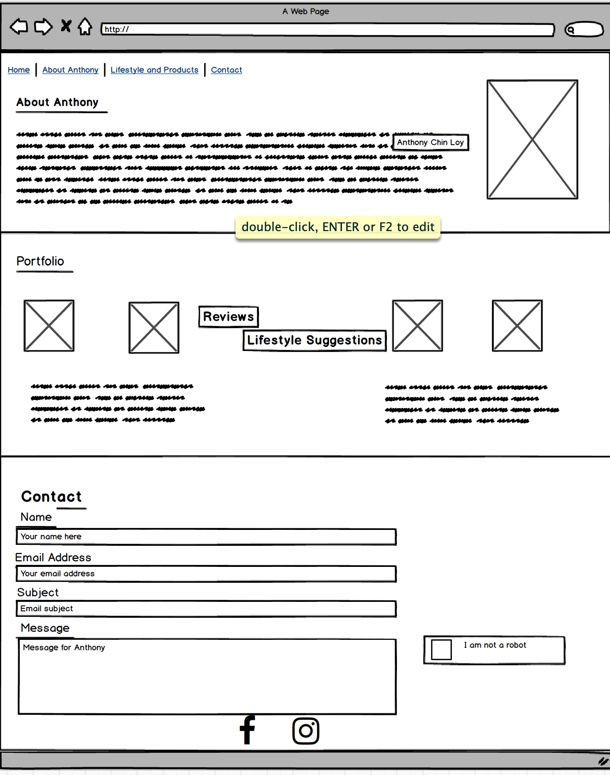
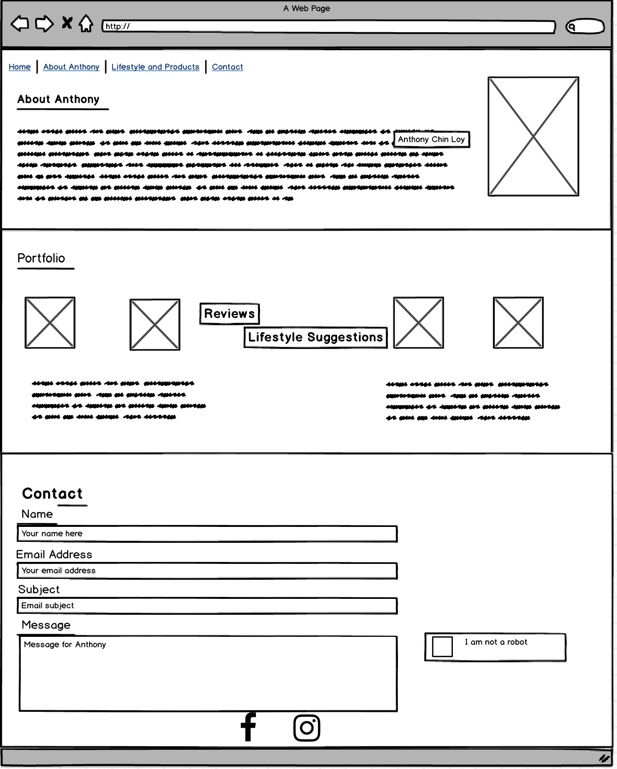
added the wireframes to pwp

diff --git a/public_html/documentation/milestone-2.php b/public_html/documentation/milestone-2.php
@@ -26,8 +26,10 @@
 			allows prospective clients to contact Anthony. It will also include Anthony's
 			professional email and links his professional Doximity profile and social media profiles.</p>
 
-		<img src="mobilewf.jpg" alt="mobile-wire-frame>
+		<img src="desktopwf.jpg" alt="mobile-wire-frame">
 
-		<img src="desktopwf.jpg" alt="mobile-wire-frame>
+		<img src="mobilewf.jpg" alt="mobile-wire-frame">
 
 	</body>
+
+</html>
